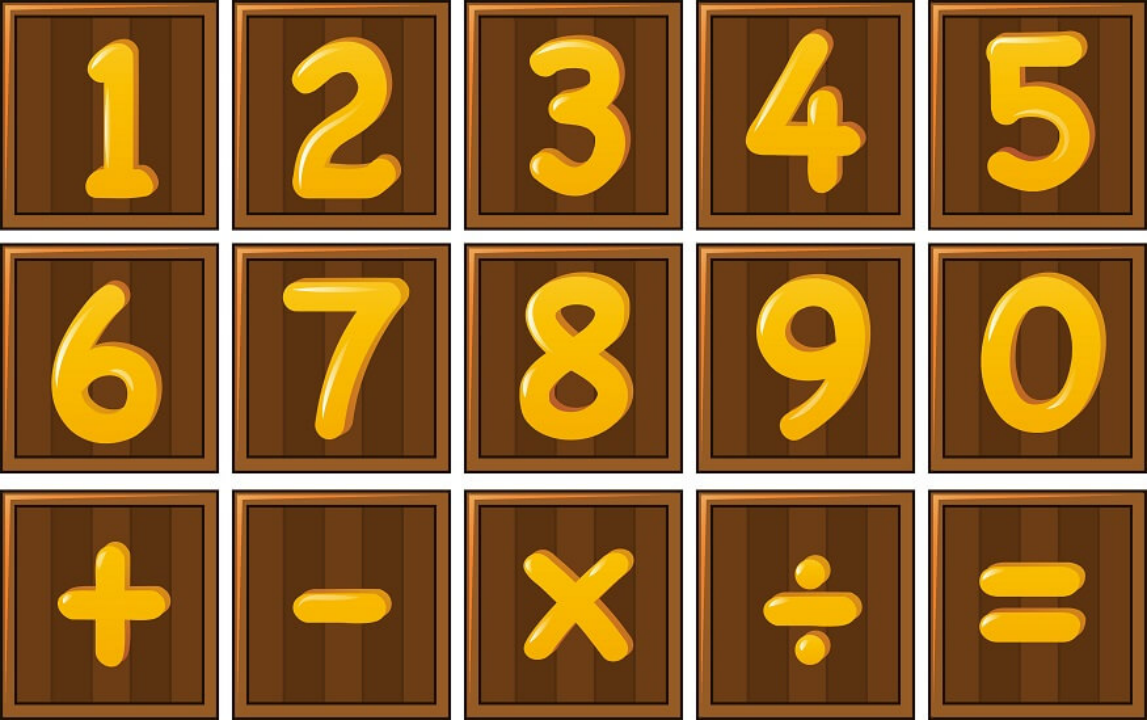
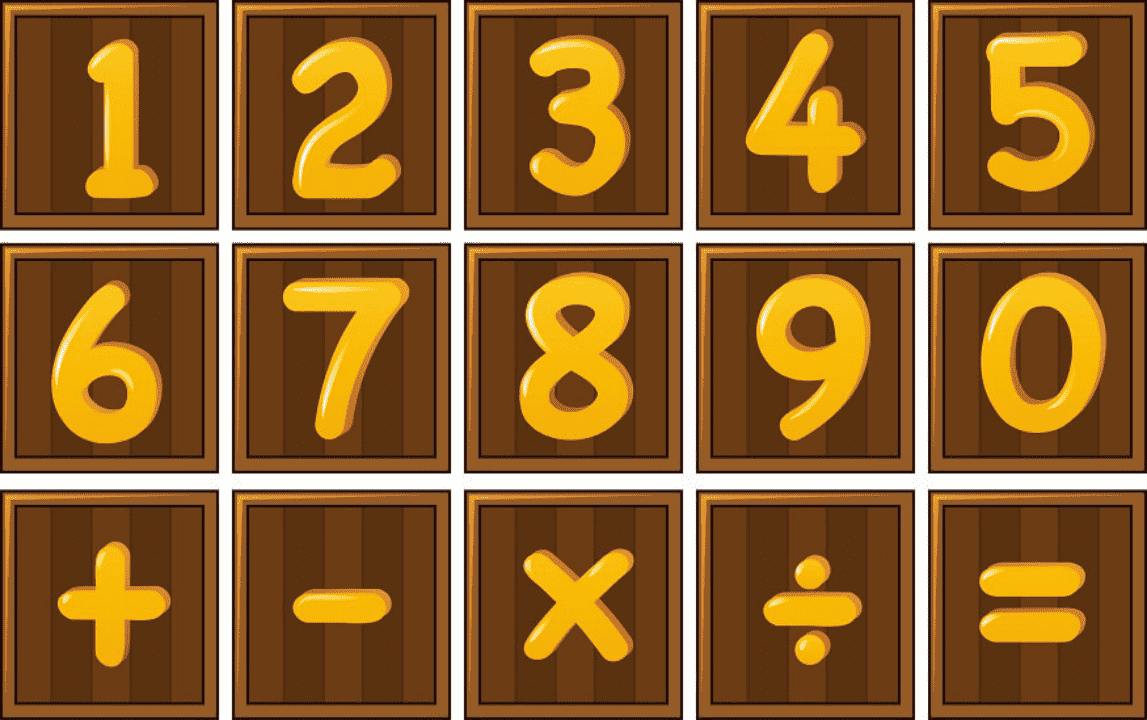
压缩图片，更改主题色

diff --git a/练习/HIMI/src/components/AppNavigation.vue b/练习/HIMI/src/components/AppNavigation.vue
@@ -1,19 +1,20 @@
 <template>
     <!-- 小屏导航栏 -->
     <div class="nav-menu-body" v-if="showNavMenus">
-        <img class="nav-menu-item" :src="getAssetsImages(`nav/view-list.png`)" alt="nav-menu"
-            @click="showAsideMenu = true">
-        <span class="nav-logo" @click="pushHome"><span class="nav-himi">HIMI</span> CONSULTING</span>
+        <img class="nav-menu-item" :src="getAssetsImages(`nav/menu.png`)" alt="nav-menu"
+            @click="showAsideMenu = true" />
+        <div class="nav-logo" @click="pushHome"></div>
         <div></div>
     </div>
     <!-- 宽屏导航  -->
     <div class="nav-body" v-if="!showNavMenus">
-        <span class="nav-logo" @click="pushHome"><span class="nav-himi">HIMI</span> CONSULTING</span>
+        <div class="nav-logo" @click="pushHome"></div>
         <div class="nav-list">
             <!-- 导航item -->
-            <span :class="activePath===item.path ? 'nav-list-active':''" v-for="(item, idx) in nav_list" :key="idx" @click="changeTab(item.path)">{{ item.title }}</span>
+            <span :class="activePath === item.path ? 'nav-list-active' : ''" v-for="(item, idx) in nav_list" :key="idx"
+                @click="changeTab(item.path)">{{ item.title }}</span>
             <!-- 切换语言 -->
-            <select class="nav-list-langs" v-model="$i18n.locale">
+            <select class="nav-list-langs" v-model="nowlocal">
                 <option v-for="local in $i18n.availableLocales" :key="'local-${local}'" :value="local">
                     {{ local }}
                 </option>
@@ -22,13 +23,13 @@
     </div>
 
     <!-- 侧面划入的导航页面 -->
-    <div :class="['nav-slide-menu', showAsideMenu ? 'nav-slide-open' : 'nav-slide-close']" v-if="showNavMenus">
+    <div :class="['nav-slide-menu', showAsideMenu ? 'nav-slide-open' : 'nav-slide-close']" v-if="showNavMenus" @click="showAsideMenu = false">
         <div class="nav-slide-menu-body">
-
             <!-- 导航item -->
-            <span :class="activePath===item.path ? 'nav-list-active':''" v-for="(item, idx) in nav_list" :key="idx" @click="changeTab(item.path)">{{ item.title }}</span>
+            <span :class="activePath === item.path ? 'nav-list-active' : ''" v-for="(item, idx) in nav_list" :key="idx"
+                @click="changeTab(item.path)">{{ item.title }}</span>
             <!-- 切换语言 -->
-            <select class="nav-list-langs" v-model="$i18n.locale" @change="showAsideMenu=false">
+            <select class="nav-list-langs" v-model="nowlocal" @change="showAsideMenu = false">
                 <option v-for="local in $i18n.availableLocales" :key="'local-${local}'" :value="local">
                     {{ local }}
                 </option>
@@ -40,7 +41,7 @@
 </template>
 
 <script setup lang="ts" name="navigation">
-import { t } from '@/i18n';
+import { nowlocal, t } from '@/i18n';
 import getAssetsImages from '@/utils/pubUse';
 import { computed, onMounted, onUnmounted, ref } from 'vue';
 import { useRoute, useRouter } from 'vue-router';
@@ -61,7 +62,7 @@ let nav_list = computed(() => {
 let showNavMenus = ref(false)
 let showAsideMenu = ref(false)
 
-let activePath = computed(()=>{
+let activePath = computed(() => {
     return route.path
 })
 
@@ -100,7 +101,6 @@ checkScreenSize();
 </script>
 
 <style scoped>
-
 /* 小屏幕的导航栏 */
 .nav-menu-body {
     height: 70px;
@@ -111,8 +111,8 @@ checkScreenSize();
 }
 
 .nav-menu-item {
-    width: 30px;
-    color: var(--color-main);
+    width: 35px;
+    cursor: pointer;
 }
 
 /* 测划入的导航页面 */
@@ -139,12 +139,14 @@ checkScreenSize();
 
 .nav-slide-menu-body span,
 .nav-slide-menu-body select {
-    padding: 5px 0;
+    padding: 10px 0;
+    font-size: 1.1rem;
     font-weight: bold;
+    cursor: pointer;
 }
 
 .nav-slide-menu-close {
-    width: 30px;
+    width: 40px;
     margin: 0 calc((15% - 30px) / 2);
     margin-top: 20px;
 }
@@ -156,8 +158,8 @@ checkScreenSize();
 }
 
 .nav-slide-close {
-    transition: 0.25s ease; 
-    transform: translateX(-100%);  
+    transition: 0.25s ease;
+    transform: translateX(-100%);
     opacity: 0;
     visibility: hidden;
 }
@@ -173,14 +175,13 @@ checkScreenSize();
 }
 
 .nav-logo {
-    font-size: 2rem;
-    letter-spacing: 2px;
-    line-height: 1;
+    background-image: url('@/assets/images/logo.png');
+    background-size: contain;
+    background-repeat: no-repeat;
+    background-position: 0;
+    height: 70%;
+    width: 180px;
     cursor: pointer;
-}
-
-.nav-himi {
-    color: var(--color-main-hover);
 }
 
 .nav-list {
@@ -240,7 +241,7 @@ checkScreenSize();
 
 @media (max-width: 1000px) {
     .nav-logo {
-        font-size: 1.5rem;
+        height: 60%;
     }
 
     .nav-list span {

diff --git a/练习/HIMI/vite.config.ts b/练习/HIMI/vite.config.ts
@@ -30,15 +30,15 @@ export default defineConfig({
     //   }
     // },
     rollupOptions:{
-        output: {
-          // entry部分的文件命名，我们这里是spa,所以entry写死也没事,多入口的话需要注意了
-          entryFileNames: "assets/js/[name]-[hash].js",
-          // 自定义chunk如何命名法，包含懒加载或者自定义分包的一些内容的命名
-          chunkFileNames: "assets/js/[name]-[hash].js",
-          // 除js之外其他资源的存放
-          assetFileNames: "assets/[ext]/[name]-[hash].[ext]",
-          // 这里注意一下中括号里面的东西都是占位符
-        }
+        // output: {
+        //   // entry部分的文件命名，我们这里是spa,所以entry写死也没事,多入口的话需要注意了
+        //   entryFileNames: "assets/js/[name]-[hash].js",
+        //   // 自定义chunk如何命名法，包含懒加载或者自定义分包的一些内容的命名
+        //   chunkFileNames: "assets/js/[name]-[hash].js",
+        //   // 除js之外其他资源的存放
+        //   assetFileNames: "assets/[ext]/[name]-[hash].[ext]",
+        //   // 这里注意一下中括号里面的东西都是占位符
+        // }
     }
 }
 })

diff --git a/练习/HIMI/src/i18n/index.ts b/练习/HIMI/src/i18n/index.ts
@@ -11,7 +11,7 @@ const messages = {
 
 const i18n = createI18n({
     // 默认语言
-    locale: 'ENGLISH',
+    locale: localStorage.getItem('himi_langs') || 'ENGLISH',
     // 组合式api
     legacy: false,
     // 语言包
@@ -23,15 +23,14 @@ const i18n = createI18n({
 // 导出全局t方法
 export const t = i18n.global.t
 
-export function useLocal() {
-    return computed({
-        get() {
-            return i18n.global.locale.value
-        },
-        set(value) {
-            i18n.global.locale.value = value
-        }
-    })
-}
+export let nowlocal = computed({
+    get() {
+        return i18n.global.locale.value
+    },
+    set(value) {
+        localStorage.setItem('himi_langs', value)
+        i18n.global.locale.value = value
+    }
+})
 
 export default i18n

diff --git a/练习/HIMI/src/pages/Home/views/Introduce.vue b/练习/HIMI/src/pages/Home/views/Introduce.vue
@@ -8,7 +8,7 @@
         <div class="introduce-list">
             <div class="introduce-item" v-for="(json, idx) in introduce_jsons" :key="idx">
                 <!-- TODO: 更改图片路径 -->
-                <img :src='getAssetsImages(json.image)' alt="">
+                <img class="introduce-img" :src='getAssetsImages(json.image)' alt="">
                 <span class="introduce-item-title">{{ json.title }}</span>
                 <span class="introduce-item-content">{{ json.content }}</span>
             </div>
@@ -74,6 +74,8 @@ let introduce_jsons = computed(() => {
     width: 45%;
     max-width: 120px;
     min-width: 50px;
+
+    filter: hue-rotate(90deg);
 }
 
 .introduce-item-title {

diff --git a/练习/HIMI/src/types/service.ts b/练习/HIMI/src/types/service.ts
@@ -31,7 +31,7 @@ export let service_map: ComputedRef<{ [key: string]: ServiceModel }> = computed(
             image: 'serverse01.png',
             title: t('services.incorporation'),
             content: t('services.incorporation_content'),
-            detailImage: 'sd1.png',
+            detailImage: 'serverse01.png',
             description: t('services.incorporation_des'),
             stepTitle: t('services.incorporation_des_title'),
             steps: t('services.incorporation_steps')

diff --git a/练习/HIMI/src/assets/css/base.css b/练习/HIMI/src/assets/css/base.css
@@ -33,8 +33,8 @@
   --color-heading: var(--vt-c-text-light-1);
   --color-text: var(--vt-c-text-light-1);
 
-  --color-main: #081359;
-  --color-main-hover: #8A8EA6;
+  --color-main: #D63B30;
+  --color-main-hover: #e68982;
 
   --section-gap: 160px;
 }
